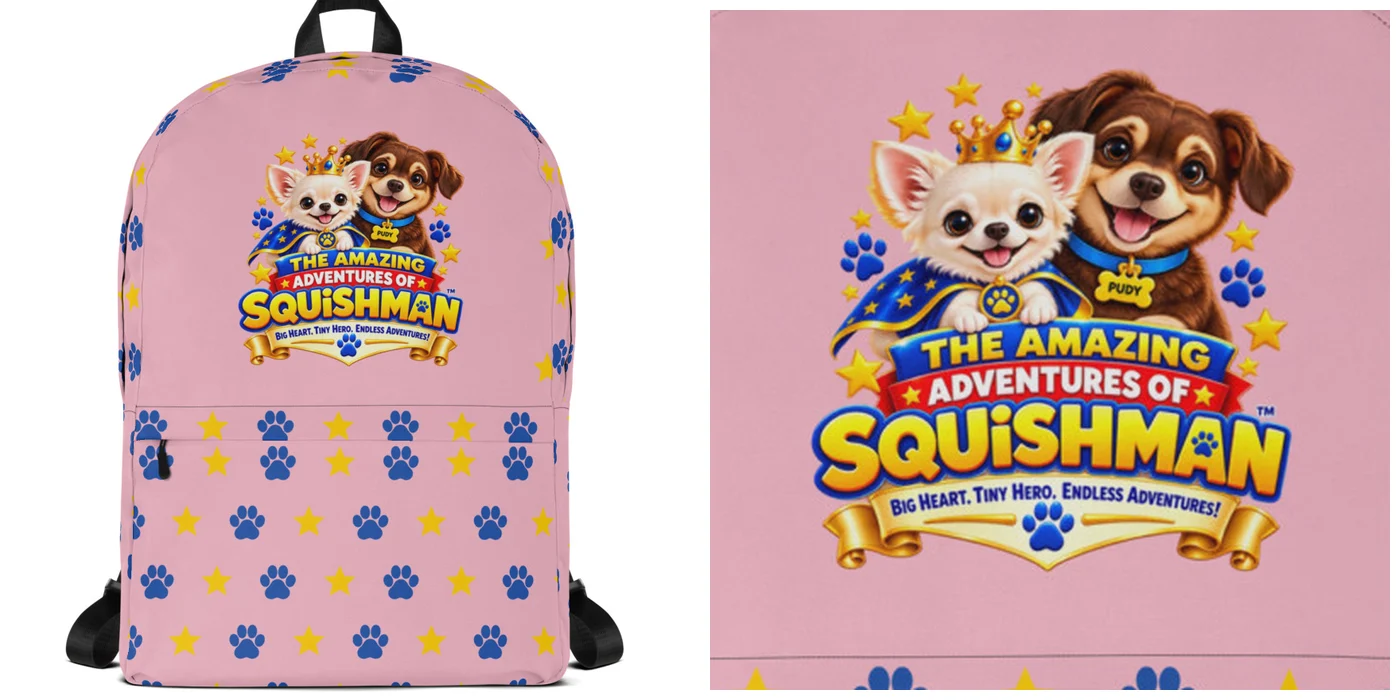
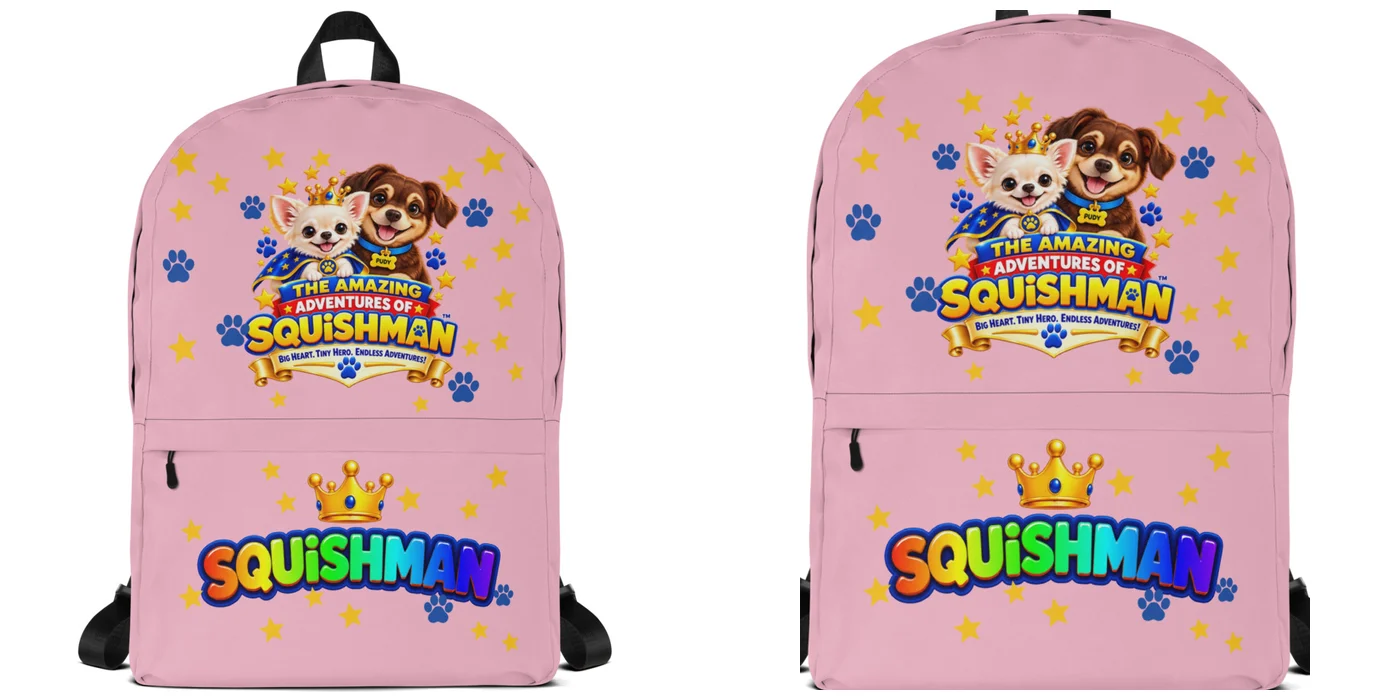
Backpacks: one concept design in White, Pink and Royal Blue
The Amazing Adventures of Squish Man banner on the front, the gold crown
and a rainbow SQUISHMAN on the front pocket, with gold stars and paw
prints. Single-design products no longer show a one-item design picker.

Claude-Session: https://claude.ai/code/session_01FVMXiv2oXUguMNtyLAxW5e

diff --git a/public/merch.js b/public/merch.js
@@ -118,7 +118,7 @@ const SHOP={
  'Squish Squad Socks':{key:'SOCKS',img:'socks',name:'Squish Squad Socks',facts:'Crew socks · S (women 6–8, men 5–6.5, big kids), M, L',shown:'Outside and back of the sock',
   desc:'Soft, stretchy crew socks covered in gold stars and paw prints, with Squish Man under the cuff and a cushioned sole. Size S fits big kids and smaller grown-ups.'},
  'Squish Squad Backpacks':{key:'BACKPACK',img:'backpack',name:'Squish Squad Backpack',facts:'16×12×4″ · water-resistant · laptop pocket',shown:'Front of the backpack',
-  desc:'A roomy, water-resistant backpack with your favorite Squish Man art on the front and gold stars and paw prints all over, plus a front pocket and an inside laptop sleeve. Great for school and adventures.'},
+  desc:'A roomy, water-resistant backpack with The Amazing Adventures of Squish Man banner on the front, a gold crown and rainbow SQUISHMAN on the front pocket, and gold stars and paw prints all around. Inside laptop sleeve. Great for school and adventures.'},
  'Squish Squad Mugs':{key:'MUG',img:'mug',name:'Squish Squad Mug',facts:'11 oz ceramic · dishwasher and microwave safe',
   desc:'A white glossy mug with Squish Man and Pudy on one side and the gold crown, SQUISHMAN wordmark and paw print on the other.'}
 };
@@ -131,7 +131,7 @@ const money=c=>'$'+(c/100).toFixed(2);
 // and photos.
 const design=p=>p.shop.designs[p.design||0];
 const unit=(p,size)=>design(p).priceCents+(p.shop.sizeUpchargeCents[size]||0);
-const DESIGN_NOTE='Every shirt, long sleeve and hoodie (grown-up and kids’), tote bag and mug comes in five designs: Squish Man & Pudy on the front with the crown logo on the back, Squish Man & Pudy on their own, the gold crown SQUISHMAN logo for a simpler look, The Amazing Adventures of Squish Man – Maple Hollow logo, or the Maple Hollow logo on the front with the crown logo on the back. Stickers come in eleven designs, from Royal Squish Man to Squish Man\'s values signpost, posters in eight, water bottles, shaped pillows, color pillows, sherpa blankets and backpacks in six each, and jigsaw puzzles and lumbar pillows in six storybook scenes. Caps come embroidered for kids, with the SQUISHMAN logo on the back, or printed in full color for grown-ups.';
+const DESIGN_NOTE='Every shirt, long sleeve and hoodie (grown-up and kids’), tote bag and mug comes in five designs: Squish Man & Pudy on the front with the crown logo on the back, Squish Man & Pudy on their own, the gold crown SQUISHMAN logo for a simpler look, The Amazing Adventures of Squish Man – Maple Hollow logo, or the Maple Hollow logo on the front with the crown logo on the back. Stickers come in eleven designs, from Royal Squish Man to Squish Man\'s values signpost, posters in eight, water bottles, shaped pillows, color pillows and sherpa blankets in six each, and jigsaw puzzles and lumbar pillows in six storybook scenes. Caps come embroidered for kids, with the SQUISHMAN logo on the back, or printed in full color for grown-ups.';
 const MAX_DESIGN_BUTTONS=6;
 const DESIGN_TITLE={FULL:'Squish Man & Pudy + Crown',PUDY:'Squish Man & Pudy',LOGO:'Crown Logo',MAPLE:'Maple Hollow Logo',MAPLECROWN:'Maple Hollow + Crown',
  MH_PALS:'Maple Hollow Pals',MH_HIGHFIVE:'Maple Hollow High Five',MH_WAVE:'Maple Hollow Wave',MH_SQUARE:'Maple Hollow Town Square',
@@ -182,7 +182,7 @@ const colorSizes=p=>p.shop.colors[p.active||0].sizes;
 const where=(m,d)=>m.key==='HAT'?'front + back':m.key==='DADHAT'?'front':['STICKER','POSTER','PUZZLE','BOTTLE','PILLOW','COLORPILLOW','LUMBAR','BLANKET','SOCKS','BACKPACK'].includes(m.key)?'':TWO_SIDED.has(d.key)?(m.key==='MUG'?'both sides':'front + back'):(m.key==='MUG'?'one side':'front only');
 function buyHtml(p,n){
  const m=p.shop,size=colorSizes(p)[0],one=m.sizes.length===1;
- return `<p class="merch-design-note">${m.designs.length} designs to choose from</p>${m.designs.length>MAX_DESIGN_BUTTONS?`<label class="merch-design-list">Design <select class="merch-design-select" data-merch="${n}">${m.designs.map((d,i)=>`<option value="${i}"${i===(p.design||0)?' selected':''}>${esc(DESIGN_TITLE[d.key]||d.label)}</option>`).join('')}</select></label>`:''}<div class="merch-designs"${m.designs.length>MAX_DESIGN_BUTTONS?' hidden':''} role="group" aria-label="${esc(p.name)} design">${m.designs.map((d,i)=>`<button type="button" class="merch-design" data-merch="${n}" data-design="${i}" aria-pressed="${i===(p.design||0)}"><b>${esc(DESIGN_TITLE[d.key]||d.label)}</b><span>${where(m,d)?`${esc(where(m,d))} · `:''}${['STICKER','POSTER','PUZZLE','PILLOW','COLORPILLOW','BLANKET'].includes(m.key)?'from ':''}${money(d.priceCents)}</span></button>`).join('')}</div>
+ return `${m.designs.length>1?`<p class="merch-design-note">${m.designs.length} designs to choose from</p>`:''}${m.designs.length>MAX_DESIGN_BUTTONS?`<label class="merch-design-list">Design <select class="merch-design-select" data-merch="${n}">${m.designs.map((d,i)=>`<option value="${i}"${i===(p.design||0)?' selected':''}>${esc(DESIGN_TITLE[d.key]||d.label)}</option>`).join('')}</select></label>`:''}<div class="merch-designs"${m.designs.length>MAX_DESIGN_BUTTONS||m.designs.length===1?' hidden':''} role="group" aria-label="${esc(p.name)} design">${m.designs.map((d,i)=>`<button type="button" class="merch-design" data-merch="${n}" data-design="${i}" aria-pressed="${i===(p.design||0)}"><b>${esc(DESIGN_TITLE[d.key]||d.label)}</b><span>${where(m,d)?`${esc(where(m,d))} · `:''}${['STICKER','POSTER','PUZZLE','PILLOW','COLORPILLOW','BLANKET'].includes(m.key)?'from ':''}${money(d.priceCents)}</span></button>`).join('')}</div>
  <dl class="merch-facts"><div><dt>Price</dt><dd class="merch-price">${money(unit(p,size))}</dd></div><div><dt>Sizes &amp; materials</dt><dd>${esc(p.facts)}</dd></div></dl>
  <div class="merch-buy">${one?'':`<label>Size <select class="merch-size" data-merch="${n}">${opts(colorSizes(p),v=>sizeLabel(m,v))}</select></label>`}<label>Quantity <select class="merch-qty" data-merch="${n}">${opts(Array.from({length:m.maxQuantity},(_,i)=>String(i+1)),v=>v)}</select></label></div>
  <p class="merch-ship">Shipping ${money(m.shipping.firstCents)}${m.shipping.additionalCents?`, plus ${money(m.shipping.additionalCents)} for each extra item`:''} · US only · printed to order, ships in about 1–2 weeks</p>

diff --git a/src/fulfillment/merch.ts b/src/fulfillment/merch.ts
@@ -1095,107 +1095,48 @@ MERCH.push({
 	productionEnabled: false,
 });
 
-// Backpacks (Printful product 279, all-over print, 16x12x4 in): the art on the
-// top half of the front, with stars and paw prints on the rest of the front,
-// the pocket and the top and bottom strips. Every color has its own files
+// Backpacks (Printful product 279, all-over print, 16x12x4 in): The Amazing
+// Adventures of Squish Man banner on the front, the gold crown and a rainbow
+// SQUISHMAN on the front pocket, gold stars and paw prints around both, and
+// solid top and bottom strips. Every color has its own files
 // (public/assets/merch/print/backpacks/).
-type BackpackPart = "pocket" | "top" | "bottom" | "SM_ROYAL" | "BEST_FRIENDS" | "MH_PALS" | "MH_WAVE" | "PUDY" | "SM_VALUES";
+type BackpackPart = "front" | "pocket" | "top" | "bottom";
 const BACKPACK_FILES: Record<string, Record<BackpackPart, number>> = {
-	"Royal Blue": {
-		pocket: 1092427765,
-		top: 1092427770,
-		bottom: 1092427778,
-		SM_ROYAL: 1092427785,
-		BEST_FRIENDS: 1092427790,
-		MH_PALS: 1092427794,
-		MH_WAVE: 1092427799,
-		PUDY: 1092427806,
-		SM_VALUES: 1092427808,
-	},
-	"Pink": {
-		pocket: 1092427816,
-		top: 1092427826,
-		bottom: 1092427832,
-		SM_ROYAL: 1092427838,
-		BEST_FRIENDS: 1092427841,
-		MH_PALS: 1092427845,
-		MH_WAVE: 1092427852,
-		PUDY: 1092427857,
-		SM_VALUES: 1092427863,
-	},
-	"Sky Blue": {
-		pocket: 1092427869,
-		top: 1092427875,
-		bottom: 1092427883,
-		SM_ROYAL: 1092427888,
-		BEST_FRIENDS: 1092427896,
-		MH_PALS: 1092427906,
-		MH_WAVE: 1092427915,
-		PUDY: 1092427923,
-		SM_VALUES: 1092427928,
-	},
-	"Sunshine Yellow": {
-		pocket: 1092427929,
-		top: 1092427937,
-		bottom: 1092427940,
-		SM_ROYAL: 1092427946,
-		BEST_FRIENDS: 1092427948,
-		MH_PALS: 1092427951,
-		MH_WAVE: 1092427955,
-		PUDY: 1092427961,
-		SM_VALUES: 1092427970,
-	},
-	"White": {
-		pocket: 1092427978,
-		top: 1092427990,
-		bottom: 1092427995,
-		SM_ROYAL: 1092427999,
-		BEST_FRIENDS: 1092428003,
-		MH_PALS: 1092428006,
-		MH_WAVE: 1092428010,
-		PUDY: 1092428014,
-		SM_VALUES: 1092428018,
-	},
+	"White": { front: 1092458943, pocket: 1092452285, top: 1092452289, bottom: 1092452297 },
+	"Pink": { front: 1092458944, pocket: 1092452309, top: 1092452314, bottom: 1092452318 },
+	"Royal Blue": { front: 1092458945, pocket: 1092452327, top: 1092452335, bottom: 1092452344 },
 };
-const backpackPanel = (type: string, width: number, height: number, part: BackpackPart): MerchFile => ({
-	type,
+const backpackPanel = (part: BackpackPart, width: number, height: number): MerchFile => ({
+	type: part,
 	fileId: null,
 	position: { area_width: width, area_height: height, width, height, top: 0, left: 0 },
 	fileIdByColor: Object.fromEntries(Object.entries(BACKPACK_FILES).map(([color, files]) => [color, files[part]])),
-});
-const backpack = (key: DesignKey & BackpackPart, label: string): MerchDesign => ({
-	key,
-	label,
-	priceCents: 4999,
-	files: [
-		backpackPanel("front", 2175, 3075, key),
-		backpackPanel("pocket", 1950, 1200, "pocket"),
-		backpackPanel("top", 4200, 1200, "top"),
-		backpackPanel("bottom", 4200, 750, "bottom"),
-	],
-	// Printful requires a stitch color; clear thread disappears into every color.
-	printfulOptions: { stitch_color: "clear" },
 });
 MERCH.push({
 	key: "BACKPACK",
 	name: "Squish Squad Backpack",
 	designs: [
-		backpack("SM_ROYAL", "Royal Squish Man"),
-		backpack("BEST_FRIENDS", "Best friends"),
-		backpack("MH_PALS", "Squish Man & Pudy in Maple Hollow"),
-		backpack("MH_WAVE", "Squish Man & Pudy waving"),
-		backpack("PUDY", "Squish Man & Pudy"),
-		backpack("SM_VALUES", "Squish Man values signpost"),
+		{
+			key: "PUDY",
+			label: "Squish Man & Pudy",
+			priceCents: 4999,
+			files: [
+				backpackPanel("front", 2175, 3075),
+				backpackPanel("pocket", 1950, 1200),
+				backpackPanel("top", 4200, 1200),
+				backpackPanel("bottom", 4200, 750),
+			],
+			// Printful requires a stitch color; clear thread disappears into every color.
+			printfulOptions: { stitch_color: "clear" },
+		},
 	],
 	sizeUpchargeCents: {},
 	shipping: { firstCents: 1099, additionalCents: 449 },
 	sizes: ["One size"],
 	colors: [
-		{ name: "Royal Blue", hex: "#1d4fa8", variants: { "One size": 9063 } },
-		{ name: "Pink", hex: "#f4b6c7", variants: { "One size": 9063 } },
-		{ name: "Sky Blue", hex: "#8fcbef", variants: { "One size": 9063 } },
-		{ name: "Sunshine Yellow", hex: "#ffd54a", variants: { "One size": 9063 } },
 		{ name: "White", hex: "#ffffff", variants: { "One size": 9063 } },
+		{ name: "Pink", hex: "#f7b8cc", variants: { "One size": 9063 } },
+		{ name: "Royal Blue", hex: "#1d4fa8", variants: { "One size": 9063 } },
 	],
 	productionEnabled: false,
 });

diff --git a/test/fulfillment.test.ts b/test/fulfillment.test.ts
@@ -648,8 +648,6 @@ describe("configuration health check", () => {
 					socks_white: "ok",
 					backpack_royal_blue: "ok",
 					backpack_pink: "ok",
-					backpack_sky_blue: "ok",
-					backpack_sunshine_yellow: "ok",
 					backpack_white: "ok",
 					hatCrownWordmark: "ok",
 					hatPaw: "ok",
@@ -854,7 +852,7 @@ describe("merch checkout", () => {
 			["KIDSHOODIE", 4999, 4999, 4999, 4999, 4999],
 			["BLANKET", 4999, 4999, 4999, 4999, 4999, 4999],
 			["SOCKS", 1699, 1699, 1699],
-			["BACKPACK", 4999, 4999, 4999, 4999, 4999, 4999],
+			["BACKPACK", 4999],
 		]);
 		expect(json.products[0].designs.map((d) => d.label)).toEqual([
 			"Squish Man & Pudy front, crown logo back",
@@ -1449,17 +1447,19 @@ describe("merch orders → Printful", () => {
 		});
 	});
 
-	it("sends backpacks with the art on the front and the pattern on the other panels", async () => {
-		const files = merchSelection("BACKPACK", "Pink", "One size", "PUDY")!.files;
-		expect(files.map((f) => f.type)).toEqual(["front", "pocket", "top", "bottom"]);
-		expect(files.every((f) => typeof f.fileId === "number")).toBe(true);
-		expect(files[1].fileId).toBe(merchSelection("BACKPACK", "Pink", "One size", "SM_ROYAL")!.files[1].fileId);
-		expect(files[0].fileId).not.toBe(merchSelection("BACKPACK", "Pink", "One size", "SM_ROYAL")!.files[0].fileId);
+	it("sends backpacks with each color's own front, pocket, top and bottom", async () => {
+		const pink = merchSelection("BACKPACK", "Pink", "One size", "PUDY")!.files;
+		const white = merchSelection("BACKPACK", "White", "One size", "PUDY")!.files;
+		expect(pink.map((f) => f.type)).toEqual(["front", "pocket", "top", "bottom"]);
+		expect(pink.every((f) => typeof f.fileId === "number")).toBe(true);
+		expect(pink.map((f) => f.fileId)).not.toEqual(white.map((f) => f.fileId));
+		expect(merchSelection("BACKPACK", "Sky Blue", "One size", "PUDY")).toBeNull();
 
 		merchSession("cs_test_backpack", "BACKPACK|Pink|One size|PUDY");
 		await deliver(sandboxEnv(), paidEvent("cs_test_backpack"));
 		expect((printful.lastCreate as { items: Array<Record<string, unknown>> }).items[0]).toMatchObject({
 			variant_id: 9063,
+			name: "Squish Squad Backpack, Squish Man & Pudy — Pink",
 			retail_price: "49.99",
 			options: [{ id: "stitch_color", value: "clear" }],
 		});
